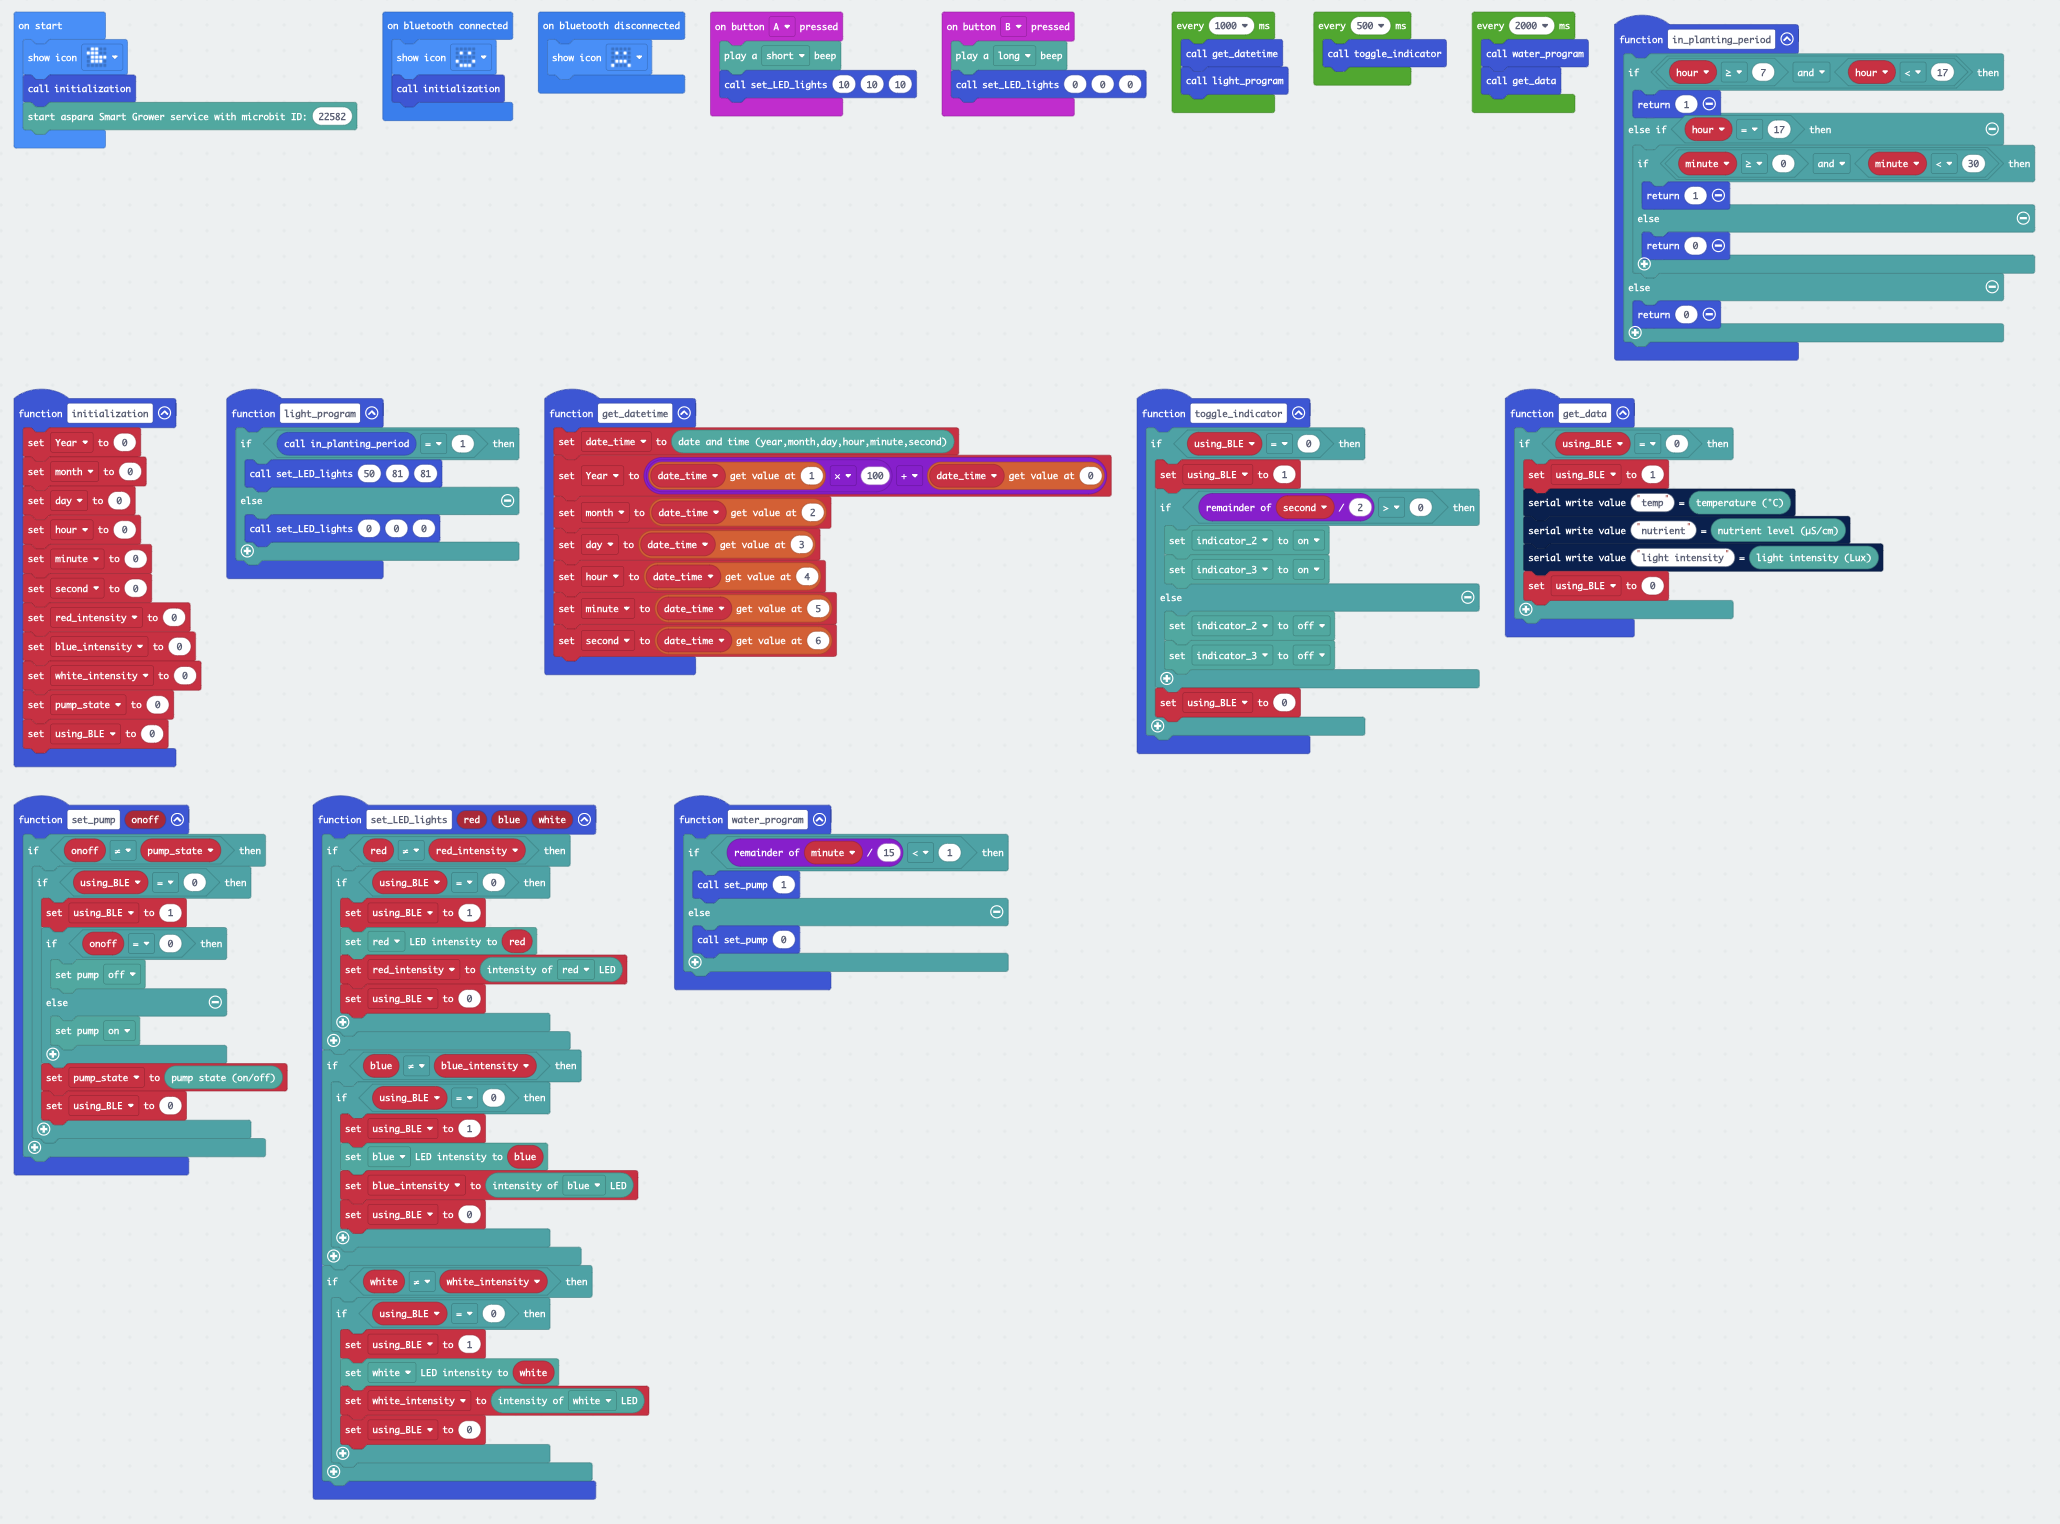
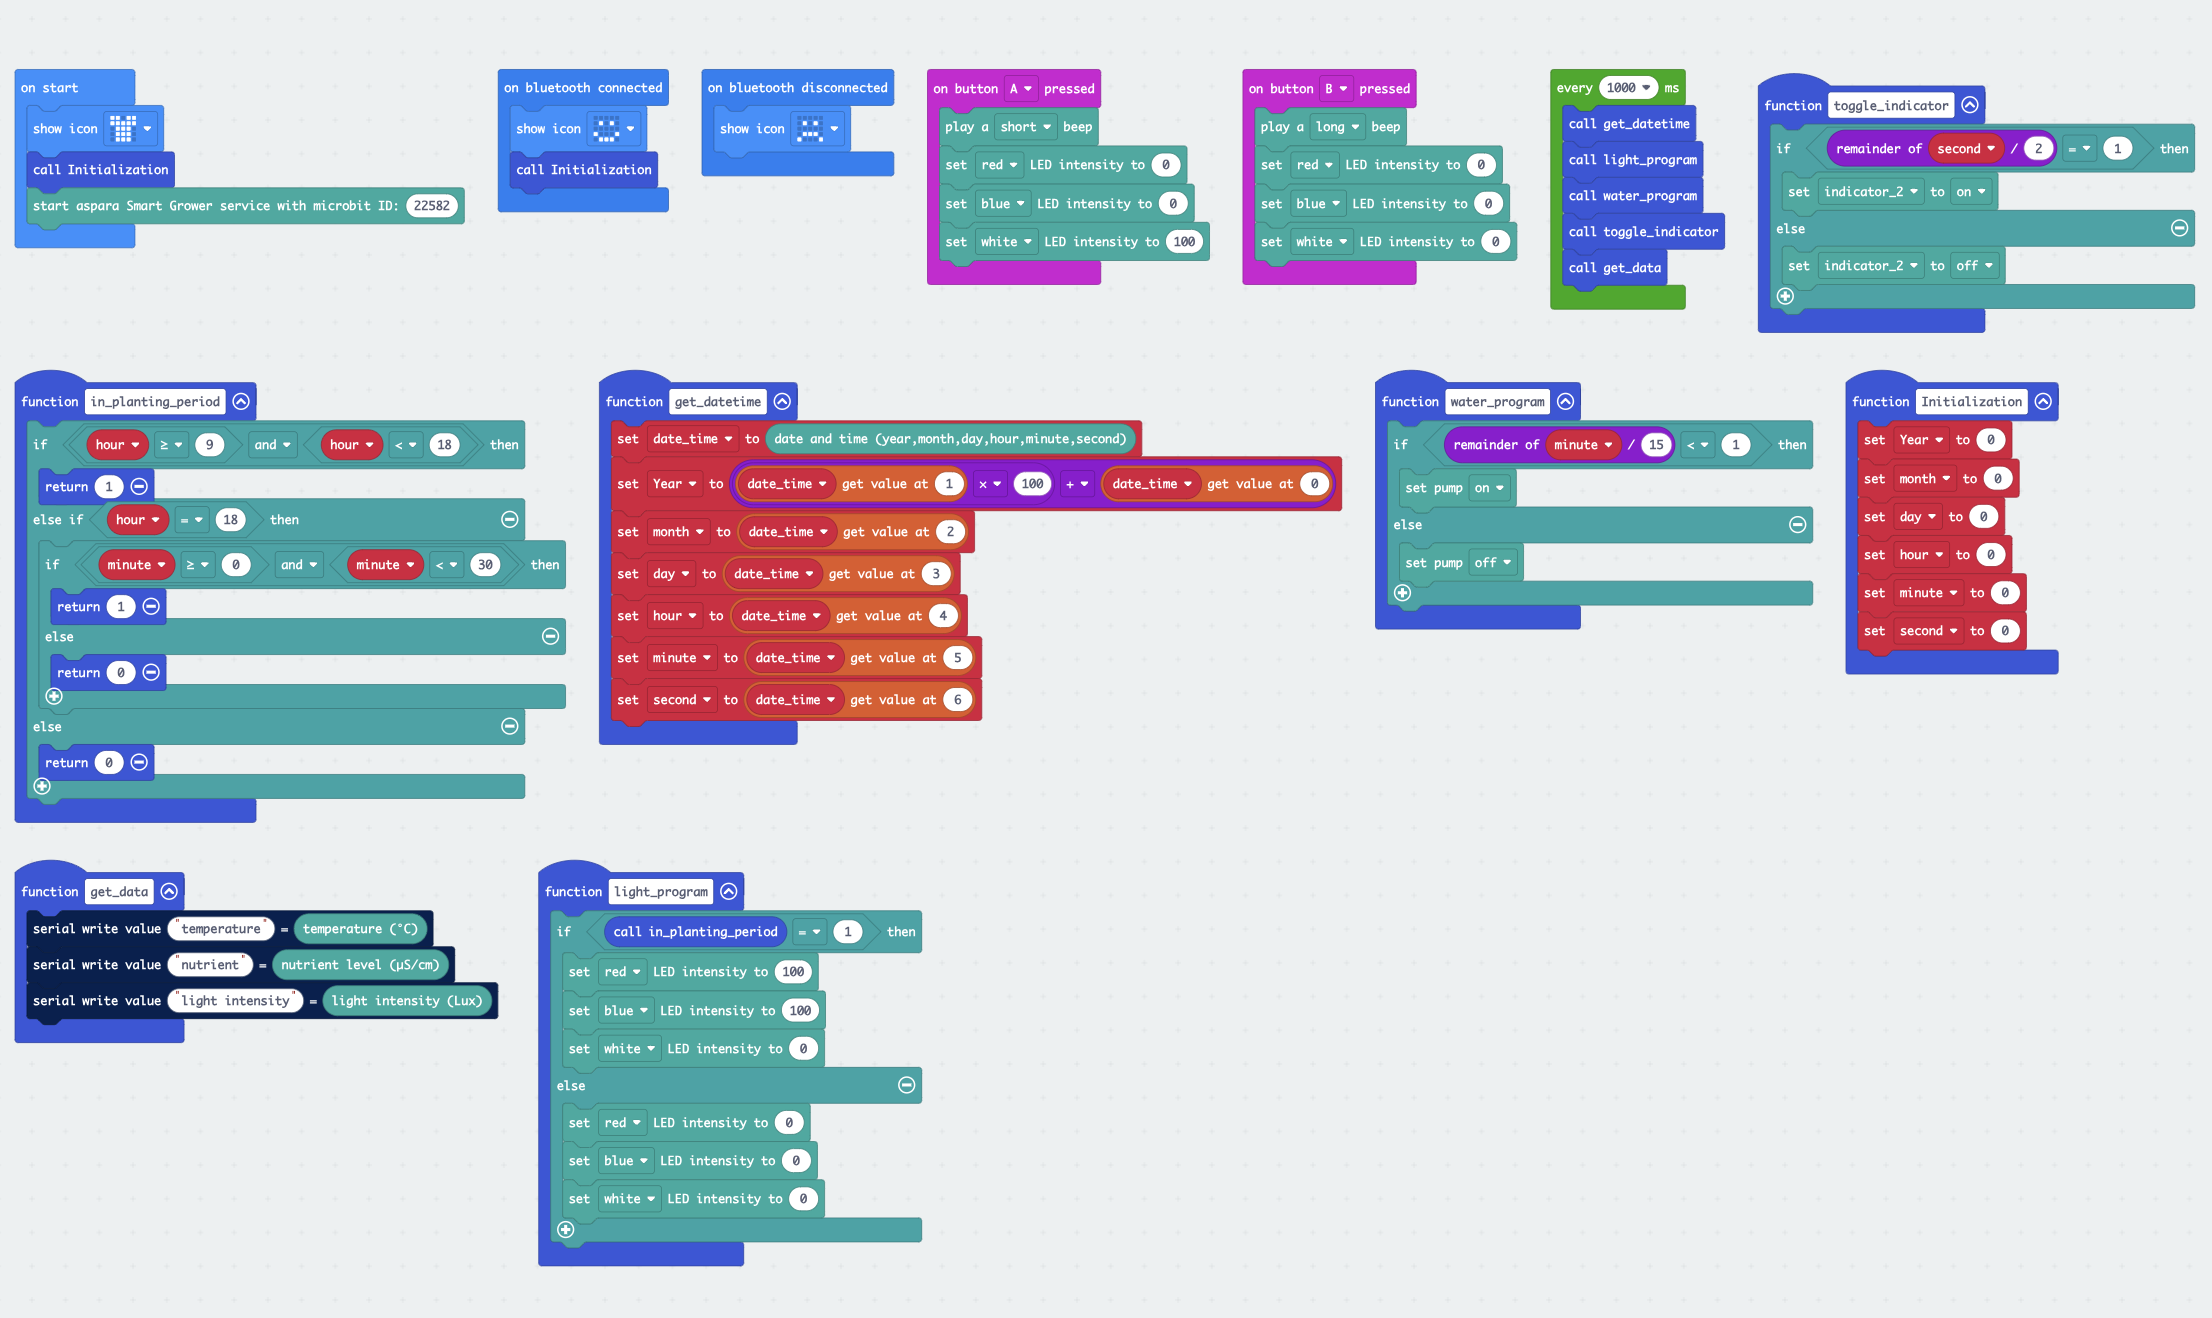
update the readme

diff --git a/examples/aspara-planting-demo/README.md b/examples/aspara-planting-demo/README.md
@@ -1,9 +1,9 @@
 ## Introduction
 * It's a demo to run a full cycle of planting, which woud schedule the LED lights on/off time, and the pattern of the pump on/off.
-* In the below example program, the LED light would be turned on from 7:00 to 17:30, and the pump would be turn on for 1 minute every 15 minute.
+* In the below example program, the LED light would be turned on from 9:00 to 18:30, and the pump would be turn on for 1 minute every 15 minute.
 
 ## Example program
-<img src="../../pngs/planting_prog_blocks.png" width=1030 height=762>
+<img src="../../pngs/planting_prog_blocks.png" width=1106 height=659>
 
 ## Compatibility
 

diff --git a/examples/aspara-control-demo/README.md b/examples/aspara-control-demo/README.md
@@ -1,7 +1,7 @@
 ## Introduction
 * To demo the use of the control blocks of the <B>aspara Smart Grower</B> MakeCode extension.
 
-    <img src="../../pngs/sample_control_prog_blocks.png" width=1076 height=641>
+    <img src="../../pngs/sample_control_prog_blocks.png" width=1010 height=565>
 ## Control actions
 * Press the "A" button would turn on the "RED" led light.
 * Press the "B" button would turn on the "BLUE" led light.

diff --git a/examples/aspara-sensor-value-demo/README.md b/examples/aspara-sensor-value-demo/README.md
@@ -1,6 +1,6 @@
 ## Introduction
 * To demo the uses of the values from <B>aspara Wireless Planting Sensor</B> in the <B>aspara Smart Grower</B> MakeCode extension.
-<img src="../../pngs/values_prog_blocks.png" width=1065 height=743>
+<img src="../../pngs/values_prog_blocks.png" width=1059 height=774>
 
 ## Control actions
 * Press the "A" button would turn on the "RED" and "WHITE" led lights.
